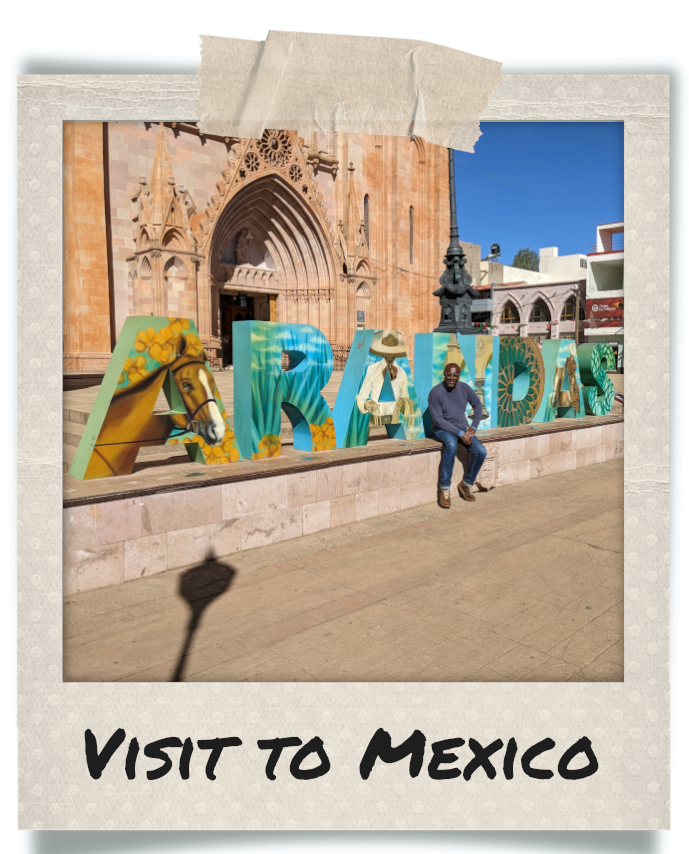
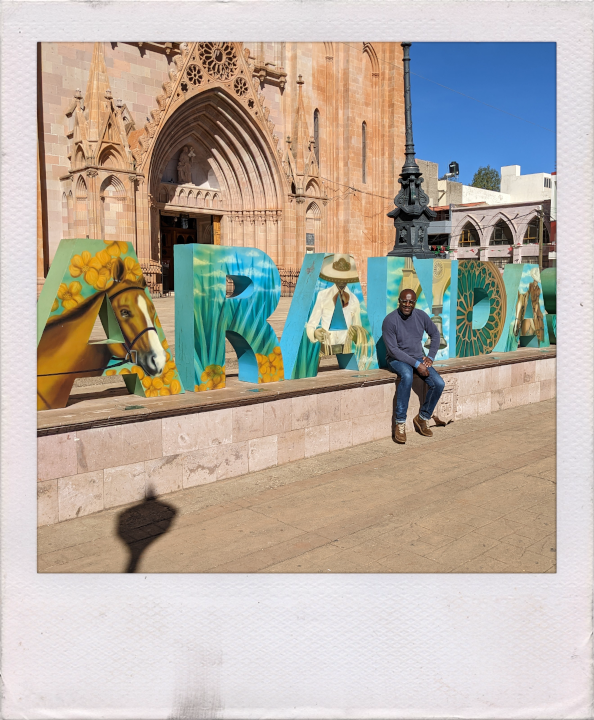
Polaroids added to Our Story

diff --git a/src/components/OurStory.js b/src/components/OurStory.js
@@ -3,6 +3,9 @@ import video from '../Images/agave.mp4'
 import './OurStory.css'
 import { Link } from 'react-router-dom'
 import farmer from '../Images/farmer.jpg'
+import arandas from '../Images/arandas.png'
+import city from '../Images/city.png'
+
 export default function OurStory() {
   return (
     <main>
@@ -47,7 +50,7 @@ export default function OurStory() {
           <div className="gradient">
             < div id='origins-info' className='wow fadeInUp' data-wow-duration="2s">
                 <h2 className='story-header'>Our Origins</h2>
-                <p>With the arrival of the Spanish conquerors in the 16th century, The Spanish brought horses with them to Mexico as they colonized the country and established large estates known as haciendas. These haciendas relied heavily on the use of horses for transportation, communication, and agricultural work. Over time, horse breeding became an important part of the local economy in Arandas and the surrounding areas. Today, horses are still an important part of the culture in Arandas, and the area is known for producing some of the finest horses in Mexico.</p>
+                <p >With the arrival of the Spanish conquerors in the 16th century, The Spanish brought horses with them to Mexico as they colonized the country and established large estates known as haciendas. These haciendas relied heavily on the use of horses for transportation, communication, and agricultural work. Over time, horse breeding became an important part of the local economy in Arandas and the surrounding areas. Today, horses are still an important part of the culture in Arandas, and the area is known for producing some of the finest horses in Mexico.</p>
                
             </div>
           </div>
@@ -57,9 +60,13 @@ export default function OurStory() {
 
         <div id='journey'>
           <div className="full-gradient">
+          <img id='arandas' src={arandas} alt='Arandas Polaroid'/>
+                <img id='city' src={city} alt='City Polaroid'/>
+
             <div id='journey-info' className='wow fadeInUp' data-wow-duration="2s">
+                
                 <h2 className='story-header'>Our Journey</h2>
-                <p>Sed sollicitudin massa pretium accumsan semper. Aenean felis eros, pharetra vitae nibh eget, consequat fringilla metus. Donec felis nisi, eleifend ac hendrerit non, sagittis quis orci. Vestibulum maximus massa eu sem pellentesque interdum. Praesent at pharetra quam. Aliquam erat volutpat. Maecenas convallis, odio ut aliquam convallis, neque quam hendrerit arcu, id tempor sem mauris quis neque. Sed elit lectus, consectetur id iaculis in, tempus quis ligula.</p>
+                <p className='our-story-p'> Our journey to find the best tequila and create the perfect drink was a thrilling and exciting adventure. It required a deep appreciation for the rich cultural heritage of Mexico and a passion for discovering the finest ingredients. To start, one must visit the heart of tequila country in Jalisco, Mexico, where agave plants are grown and harvested. From there, it's about exploring the different surrounding areas, distilleries and tasting the various styles of tequila, from the smooth and sweet blanco to the bold and complex añejo. As we tried different tequilas, we quickly understood what we wanted then slowly perfected the drink we produce today. Our journey to find the best tequila and create the perfect drink was a journey worth taking.</p>
 
               </div>
           </div>

diff --git a/src/components/OurStory.css b/src/components/OurStory.css
@@ -118,18 +118,10 @@ video{
   }
 
   #journey-info{
+    position: relative;
     width: 400px;
-    top: 10%;
+    top: 5%;
     right: 5%;
-  }
-  #journey-info p{
-    font-family: Gotham;
-    max-width: 70vw;
-    letter-spacing: 1px;
-    font-size: 1rem;
-    line-height: 25px;
-    padding-right: 1rem;
-    font-weight: bold;
   }
 
   #magic-of-thiago, #origins-info, #journey-info{
@@ -138,6 +130,7 @@ video{
     flex-direction: column;
     align-items: left;
     text-align: left;
+    max-width: 90vw;
   }
   
 
@@ -174,3 +167,60 @@ video{
     height: 350px;
     box-shadow: rgba(0, 0, 0, 0.25) 0px 14px 28px, rgba(0, 0, 0, 0.22) 0px 10px 10px;
   }
+
+  #arandas, #city{
+    min-width: 200px;
+    width: 20vw;
+    position: absolute;
+  }
+
+  #city{
+    top: 75px;
+    left: 275px;
+    z-index: 49;
+  }
+  #arandas{
+    top: 300px;
+    left: 100px;
+    z-index: 50;
+  }
+
+  @media only screen and (max-width: 800px) {
+     #origins-info, #journey-info{
+      position: relative;
+      top: 5%;
+      left: 5%;
+      width: 100%;
+      right: unset;
+     
+    }
+    .our-story-p,  #origins-info p{
+    
+      max-width: 100vw;
+      
+    }
+
+    #farmer{
+      display: none;
+    }
+    #arandas, #city{
+      display: none;
+    }
+   
+  }
+
+  @media only screen and (max-width: 950px) {
+    #city{
+      width: 200px;
+      top: 75px;
+      left: 150px;
+      z-index: 49;
+    }
+    #arandas{
+      width: 200px;
+      top: 200px;
+      left: 50px;
+      z-index: 50;
+    }
+  
+ }

diff --git a/src/App.css b/src/App.css
@@ -32,6 +32,7 @@ html{
 
 #motto{
   font-family: GreenGroveBold;
+  font-size: 1.5rem;
   font-weight: 200;
   border: 1px solid white;
   padding: 2rem 3rem;

diff --git a/src/components/Basket.css b/src/components/Basket.css
@@ -78,6 +78,8 @@
     width: 90%;
     border: 2px solid white;
     font-family: Gotham;
+    font-size: 16px;
+    color: white;
   }
 
   #mySidenav{
